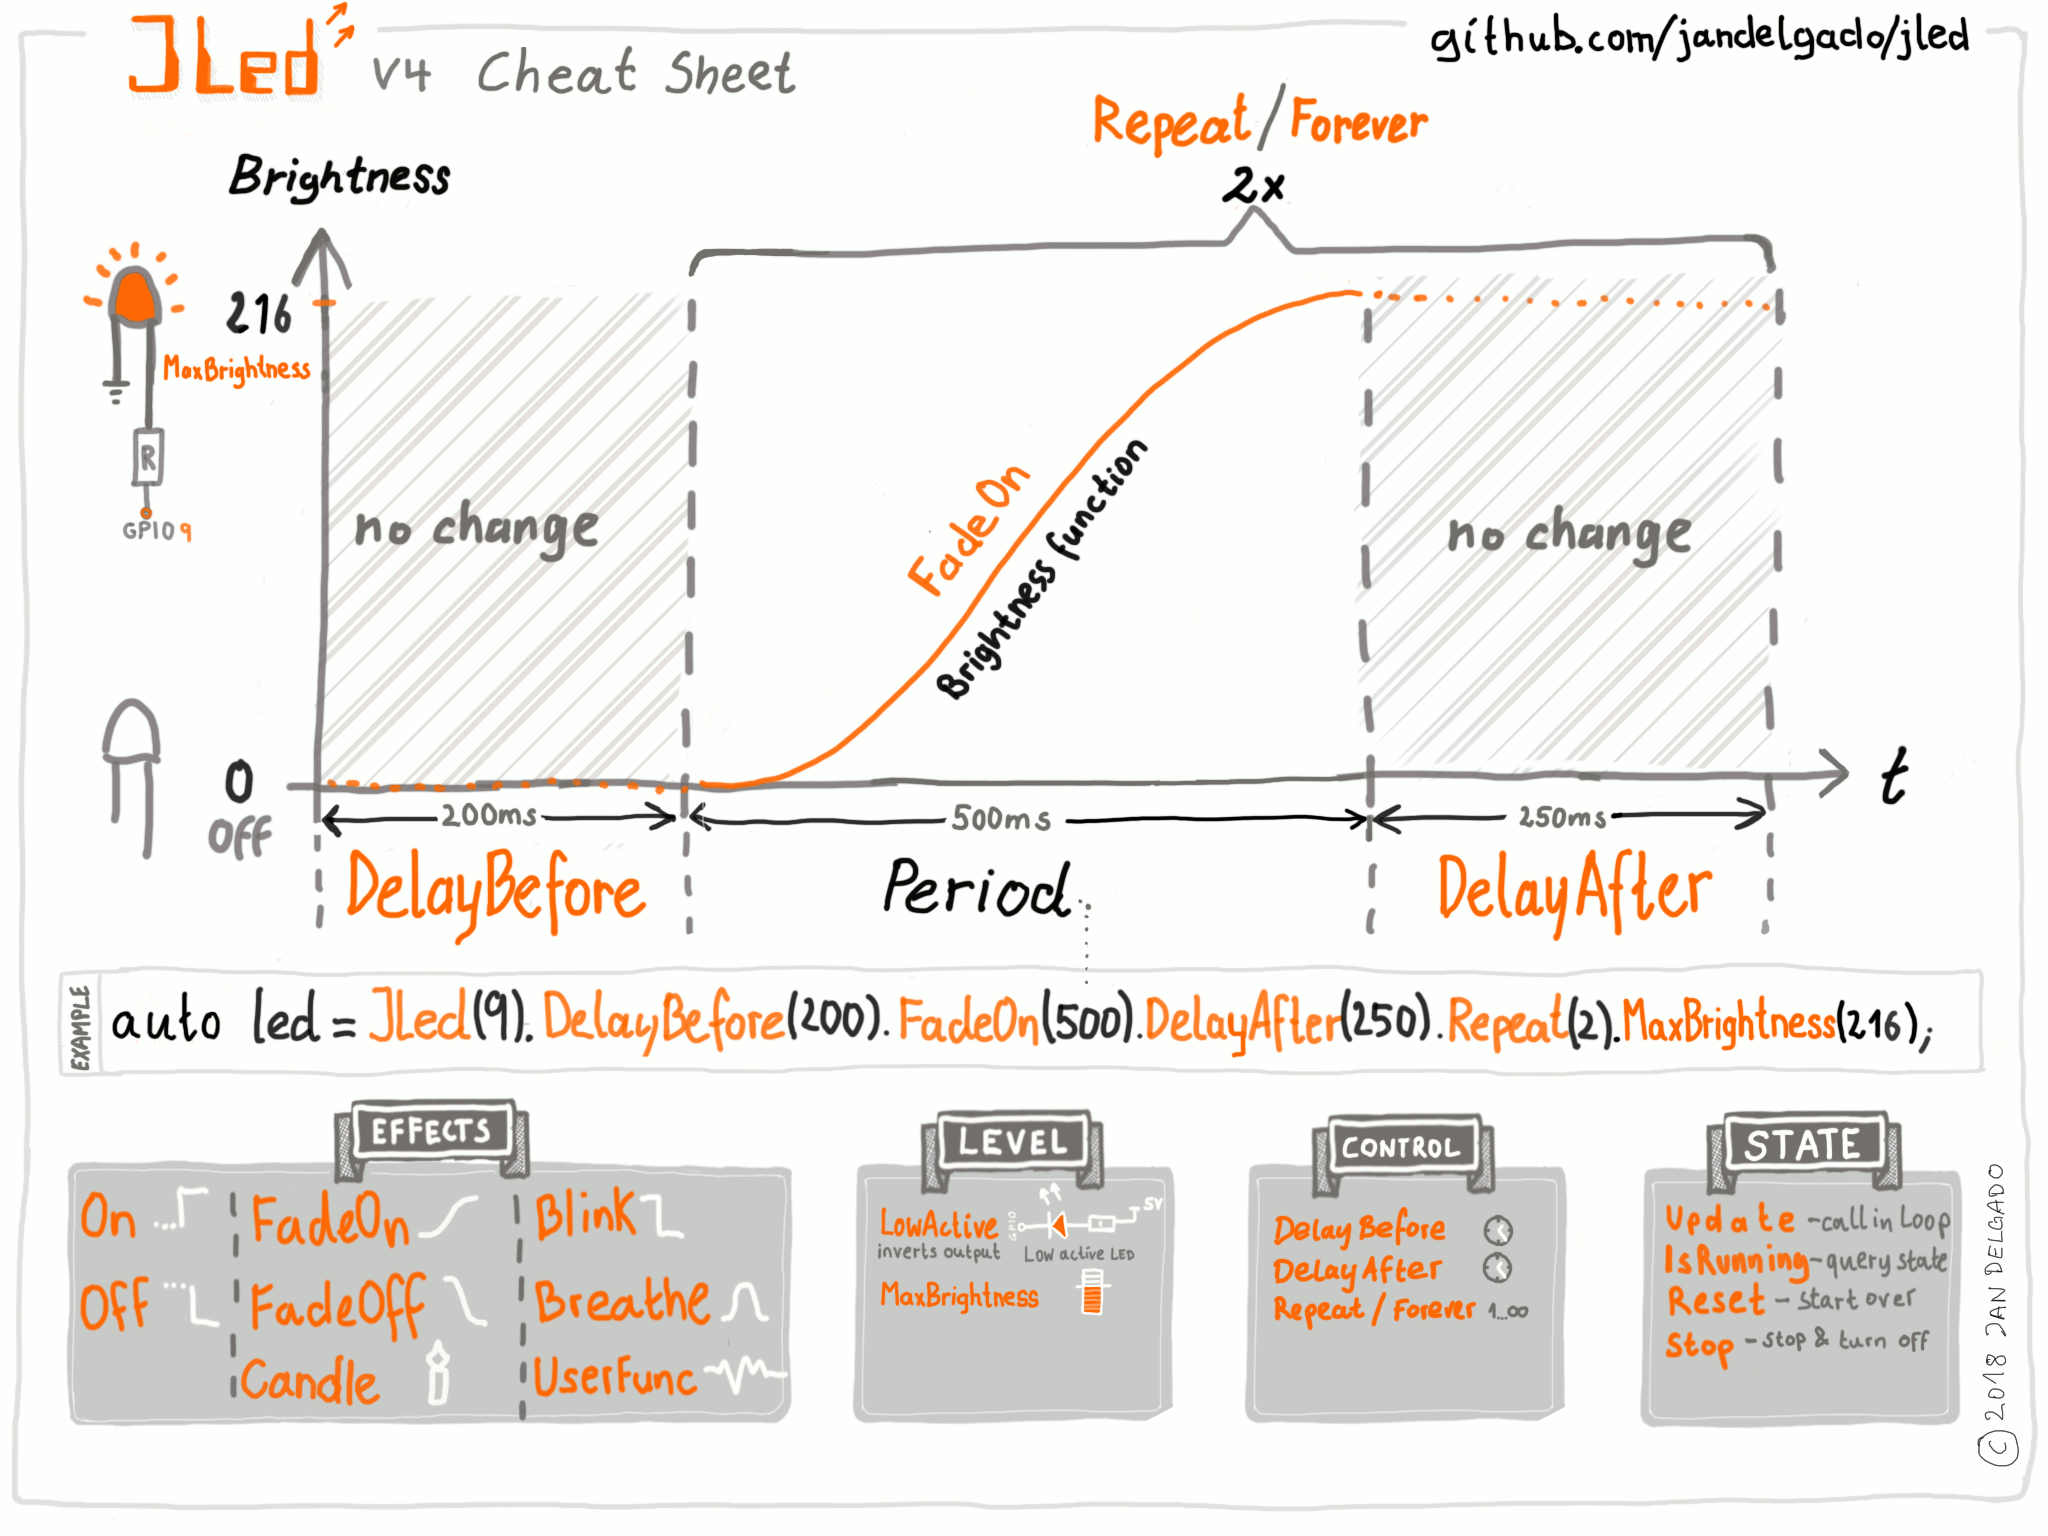
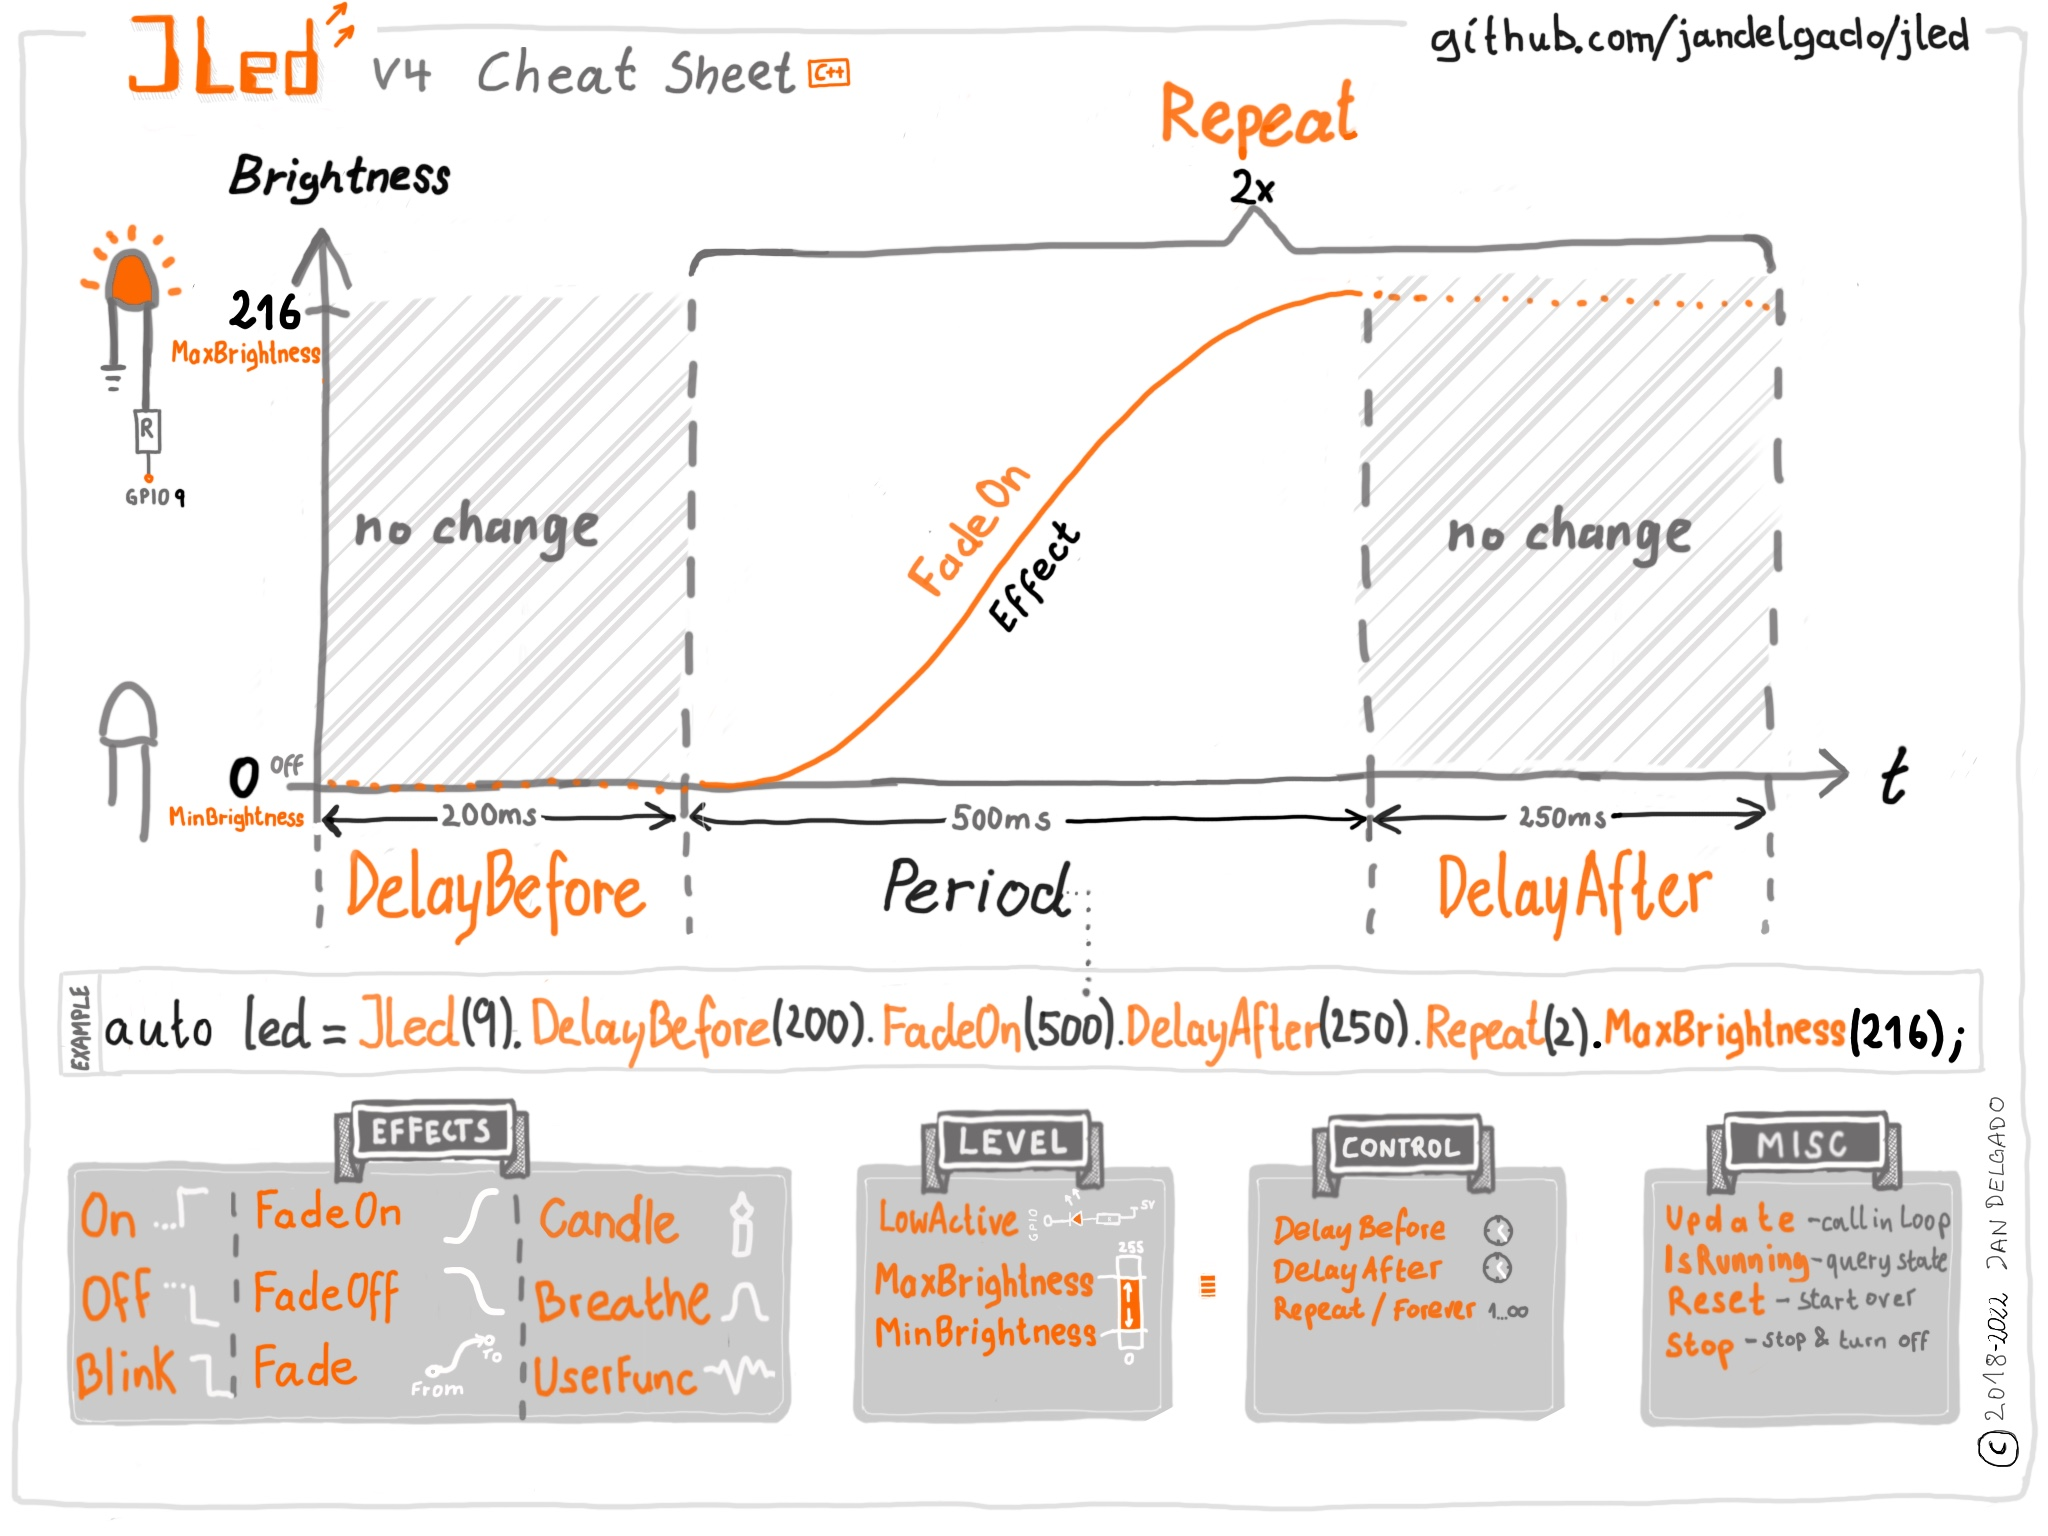
add: general Fade(from, to, duration) method (#106)
* FadeOn/FadeOff now use generalized Breathe evaluator allowing us to get rid of classes formerly used for FadeOn/FadeOff
* add generalized Fade(from,to,duration) function which internally configures the breathe-effect with min- and
max-brightness correctly set up.
* add fade from-to example
* add pule example

diff --git a/test/test_jled.cpp b/test/test_jled.cpp
@@ -14,8 +14,6 @@ using jled::BreatheBrightnessEvaluator;
 using jled::BrightnessEvaluator;
 using jled::CandleBrightnessEvaluator;
 using jled::ConstantBrightnessEvaluator;
-using jled::FadeOffBrightnessEvaluator;
-using jled::FadeOnBrightnessEvaluator;
 using jled::TJLed;
 
 // TestJLed is a JLed class using the HalMock for tests. This allows to
@@ -112,9 +110,14 @@ TEST_CASE("using Breathe() configures BreatheBrightnessEvaluator", "[jled]") {
         using TestJLed::TestJLed;
         static void test() {
             TestableJLed jled(1);
-            jled.Breathe(0);
+            jled.Breathe(100, 200, 300);
             REQUIRE(dynamic_cast<BreatheBrightnessEvaluator *>(
                         jled.brightness_eval_) != nullptr);
+            auto eval = dynamic_cast<BreatheBrightnessEvaluator *>(
+                jled.brightness_eval_);
+            CHECK(100 == eval->DurationFadeOn());
+            CHECK(200 == eval->DurationOn());
+            CHECK(300 == eval->DurationFadeOff());
         }
     };
     TestableJLed::test();
@@ -140,23 +143,68 @@ TEST_CASE("using Fadeon(), FadeOff() configures Fade-BrightnessEvaluators",
      public:
         using TestJLed::TestJLed;
         static void test() {
-            SECTION("FadeOff() initializes with FadeOffBrightnessEvaluator") {
+            SECTION("FadeOff() initializes with BreatheBrightnessEvaluator") {
                 TestableJLed jled(1);
-                jled.FadeOff(0);
-                REQUIRE(dynamic_cast<FadeOffBrightnessEvaluator *>(
+                jled.FadeOff(100);
+                REQUIRE(dynamic_cast<BreatheBrightnessEvaluator *>(
                             jled.brightness_eval_) != nullptr);
+                auto eval = dynamic_cast<BreatheBrightnessEvaluator *>(
+                    jled.brightness_eval_);
+                CHECK(0 == eval->DurationFadeOn());
+                CHECK(0 == eval->DurationOn());
+                CHECK(100 == eval->DurationFadeOff());
             }
-            SECTION("FadeOn() initializes with FadeOnBrightnessEvaluator") {
+            SECTION("FadeOn() initializes with BreatheBrightnessEvaluator") {
                 TestableJLed jled(1);
-                jled.FadeOn(0);
-                REQUIRE(dynamic_cast<FadeOnBrightnessEvaluator *>(
+                jled.FadeOn(100);
+                REQUIRE(dynamic_cast<BreatheBrightnessEvaluator *>(
                             jled.brightness_eval_) != nullptr);
+                auto eval = dynamic_cast<BreatheBrightnessEvaluator *>(
+                    jled.brightness_eval_);
+                CHECK(100 == eval->DurationFadeOn());
+                CHECK(0 == eval->DurationOn());
+                CHECK(0 == eval->DurationFadeOff());
             }
         }
     };
     TestableJLed::test();
 }
 
+TEST_CASE("using Fade() configures BreatheBrightnessEvaluator", "[jled]") {
+    class TestableJLed : public TestJLed {
+     public:
+        using TestJLed::TestJLed;
+        static void test() {
+            SECTION("fade with from < to") {
+                TestableJLed jled(1);
+                jled.Fade(100, 200, 300);
+                REQUIRE(dynamic_cast<BreatheBrightnessEvaluator *>(
+                            jled.brightness_eval_) != nullptr);
+                auto eval = dynamic_cast<BreatheBrightnessEvaluator *>(
+                    jled.brightness_eval_);
+                CHECK(300 == eval->DurationFadeOn());
+                CHECK(0 == eval->DurationOn());
+                CHECK(0 == eval->DurationFadeOff());
+                CHECK(100 == jled.MinBrightness());
+                CHECK(200 == jled.MaxBrightness());
+            }
+            SECTION("fade with from >= to") {
+                TestableJLed jled(1);
+                jled.Fade(200, 100, 300);
+                REQUIRE(dynamic_cast<BreatheBrightnessEvaluator *>(
+                            jled.brightness_eval_) != nullptr);
+                auto eval = dynamic_cast<BreatheBrightnessEvaluator *>(
+                    jled.brightness_eval_);
+                CHECK(0 == eval->DurationFadeOn());
+                CHECK(0 == eval->DurationOn());
+                CHECK(300 == eval->DurationFadeOff());
+                CHECK(100 == jled.MinBrightness());
+                CHECK(200 == jled.MaxBrightness());
+            }
+        }
+    };
+    TestableJLed::test();
+}
 TEST_CASE("UserFunc() allows to use a custom brightness evaluator", "[jled]") {
     class TestableJLed : public TestJLed {
      public:
@@ -203,38 +251,6 @@ TEST_CASE("CandleBrightnessEvaluator simulated candle flickering", "[jled]") {
     // TODO(jd) do further and better tests
     CHECK(eval.Eval(0) > 0);
     CHECK(eval.Eval(999) > 0);
-}
-
-TEST_CASE("FadeOnEvaluator evaluates to expected brightness curve", "[jled]") {
-    constexpr auto kPeriod = 2000;
-
-    auto evalOn = FadeOnBrightnessEvaluator(kPeriod);
-
-    CHECK(kPeriod == evalOn.Period());
-
-    const std::map<uint32_t, uint8_t> test_values = {
-        {0, 0},      {500, 13},   {1000, 68},  {1500, 179},
-        {1999, 255}, {2000, 255}, {10000, 255}};
-
-    for (const auto &x : test_values) {
-        CHECK(x.second == evalOn.Eval(x.first));
-    }
-}
-
-TEST_CASE("FadeOffEvaluator evaluates to expected brightness curve", "[jled]") {
-    constexpr auto kPeriod = 2000;
-
-    // note: FadeOff is invervted FadeOn
-    auto evalOff = FadeOffBrightnessEvaluator(kPeriod);
-
-    CHECK(kPeriod == evalOff.Period());
-    const std::map<uint32_t, uint8_t> test_values = {
-        {0, 0},      {500, 13},   {1000, 68},  {1500, 179},
-        {1999, 255}, {2000, 255}, {10000, 255}};
-
-    for (const auto &x : test_values) {
-        CHECK(x.second == evalOff.Eval(kPeriod - x.first));
-    }
 }
 
 TEST_CASE(

diff --git a/src/jled_base.h b/src/jled_base.h
@@ -43,7 +43,7 @@ static constexpr uint8_t kZeroBrightness = 0;
 
 uint8_t fadeon_func(uint32_t t, uint16_t period);
 uint8_t rand8();
-void    rand_seed(uint32_t s);
+void rand_seed(uint32_t s);
 uint8_t scale8(uint8_t val, uint8_t f);
 uint8_t lerp8by8(uint8_t val, uint8_t a, uint8_t b);
 
@@ -97,36 +97,6 @@ class BlinkBrightnessEvaluator : public CloneableBrightnessEvaluator {
     }
 };
 
-// fade LED on
-class FadeOnBrightnessEvaluator : public CloneableBrightnessEvaluator {
-    uint16_t period_;
-
- public:
-    FadeOnBrightnessEvaluator() = delete;
-    explicit FadeOnBrightnessEvaluator(uint16_t period) : period_(period) {}
-    BrightnessEvaluator* clone(void* ptr) const override {
-        return new (ptr) FadeOnBrightnessEvaluator(*this);
-    }
-    uint16_t Period() const override { return period_; }
-    uint8_t Eval(uint32_t t) const override { return fadeon_func(t, period_); }
-};
-
-// fade LED off
-class FadeOffBrightnessEvaluator : public CloneableBrightnessEvaluator {
-    uint16_t period_;
-
- public:
-    FadeOffBrightnessEvaluator() = delete;
-    explicit FadeOffBrightnessEvaluator(uint16_t period) : period_(period) {}
-    BrightnessEvaluator* clone(void* ptr) const override {
-        return new (ptr) FadeOffBrightnessEvaluator(*this);
-    }
-    uint16_t Period() const override { return period_; }
-    uint8_t Eval(uint32_t t) const override {
-        return fadeon_func(period_ - t, period_);
-    }
-};
-
 // The breathe func is composed by fade-on, on and fade-off phases. For fading
 // we approximate the following function:
 //   y(x) = exp(sin((t-period/4.) * 2. * PI / period)) - 0.36787944) *  108.)
@@ -160,6 +130,10 @@ class BreatheBrightnessEvaluator : public CloneableBrightnessEvaluator {
         else
             return fadeon_func(Period() - t, duration_fade_off_);
     }
+
+    uint16_t DurationFadeOn() const { return duration_fade_on_; }
+    uint16_t DurationFadeOff() const { return duration_fade_off_; }
+    uint16_t DurationOn() const { return duration_on_; }
 };
 
 class CandleBrightnessEvaluator : public CloneableBrightnessEvaluator {
@@ -281,14 +255,25 @@ class TJLed {
 
     // Fade LED on
     B& FadeOn(uint16_t duration) {
-        return SetBrightnessEval(new (brightness_eval_buf_)
-                                     FadeOnBrightnessEvaluator(duration));
+        return SetBrightnessEval(new (
+            brightness_eval_buf_) BreatheBrightnessEvaluator(duration, 0, 0));
     }
 
     // Fade LED off - acutally is just inverted version of FadeOn()
     B& FadeOff(uint16_t duration) {
-        return SetBrightnessEval(new (brightness_eval_buf_)
-                                     FadeOffBrightnessEvaluator(duration));
+        return SetBrightnessEval(new (
+            brightness_eval_buf_) BreatheBrightnessEvaluator(0, 0, duration));
+    }
+
+    // Fade from "from" to "to" with period "duration". Sets up the breathe
+    // effect with the proper parameters and sets Min/Max brightness to reflect
+    // levels specified by "from" and "to".
+    B& Fade(uint8_t from, uint8_t to, uint16_t duration) {
+        if (from < to) {
+            return FadeOn(duration).MinBrightness(from).MaxBrightness(to);
+        } else {
+            return FadeOff(duration).MinBrightness(to).MaxBrightness(from);
+        }
     }
 
     // Set effect to Breathe, with the given period time in ms.
@@ -388,9 +373,7 @@ class TJLed {
         return (now & 255) != last_update_time_;
     }
 
-    void trackLastUpdateTime(uint32_t t) {
-        last_update_time_ = (t & 255);
-    }
+    void trackLastUpdateTime(uint32_t t) { last_update_time_ = (t & 255); }
 
     // update brightness of LED using the given brightness evaluator
     //  (brightness)                       ________________
@@ -405,8 +388,8 @@ class TJLed {
         if (state_ == ST_STOPPED || !brightness_eval_) return false;
 
         if (state_ == ST_INIT) {
-             time_start_ = now + delay_before_;
-             state_ = ST_RUNNING;
+            time_start_ = now + delay_before_;
+            state_ = ST_RUNNING;
         } else {
             // no need to process updates twice during one time tick.
             if (!timeChangedSinceLastUpdate(now)) return true;
@@ -454,7 +437,7 @@ class TJLed {
     }
 
  public:
-     // Number of bits used to control brightness with Min/MaxBrightness().
+    // Number of bits used to control brightness with Min/MaxBrightness().
     static constexpr uint8_t kBitsBrightness = 8;
     static constexpr uint8_t kBrightnessStep = 1;
 

diff --git a/README.md b/README.md
@@ -59,6 +59,8 @@ void loop() {
         * [FadeOn](#fadeon)
             * [FadeOn example](#fadeon-example)
         * [FadeOff](#fadeoff)
+        * [Fade](#fade)
+            * [Fade example](#fade-example)
         * [User provided brightness function](#user-provided-brightness-function)
             * [User provided brightness function example](#user-provided-brightness-function-example)
         * [Delays and repetitions](#delays-and-repetitions)
@@ -296,8 +298,32 @@ void loop() {
 
 In FadeOff mode, the LED is smoothly faded off using PWM. The fade starts at
 100% brightness. Internally it is implemented as a mirrored version of the
-FadeOn function, i.e. FadeOn(t) = FadeOff(period-t).  The `FadeOff()` method
+FadeOn function, i.e. FadeOff(t) = FadeOn(period-t).  The `FadeOff()` method
 takes the period of the effect as argument.
+
+#### Fade
+
+The Fade effect allows to fade from any start value `from` to any target value
+`to` with the given duration. Internally it sets up a `FadeOn` or `FadeOff`
+effect and `MinBrightness` and `MaxBrightness` values properly. The `Fade`
+method take three argumens: `from`, `to` and `duration`.
+
+<a href="examples/fade_from_to"><img alt="fade from-to" src="doc/fade_from-to.png" height=200></a>
+
+##### Fade example
+
+```c++
+#include <jled.h>
+
+// fade from 100 to 200 with period 1000
+auto led = JLed(9).Fade(100, 200, 1000);
+
+void setup() { }
+
+void loop() {
+  led.Update();
+}
+```
 
 #### User provided brightness function
 
@@ -545,6 +571,8 @@ Example sketches are provided in the [examples](examples/) directory.
 * [Candle effect](examples/candle)
 * [Fade LED on](examples/fade_on)
 * [Fade LED off](examples/fade_off)
+* [Fade from-to effect](examples/fade_from_to)
+* [Pulse effect](examples/pulse)
 * [Controlling multiple LEDs in parallel](examples/multiled)
 * [Controlling multiple LEDs in parallel (mbed)](examples/multiled_mbed)
 * [Controlling multiple LEDs sequentially](examples/sequence)
